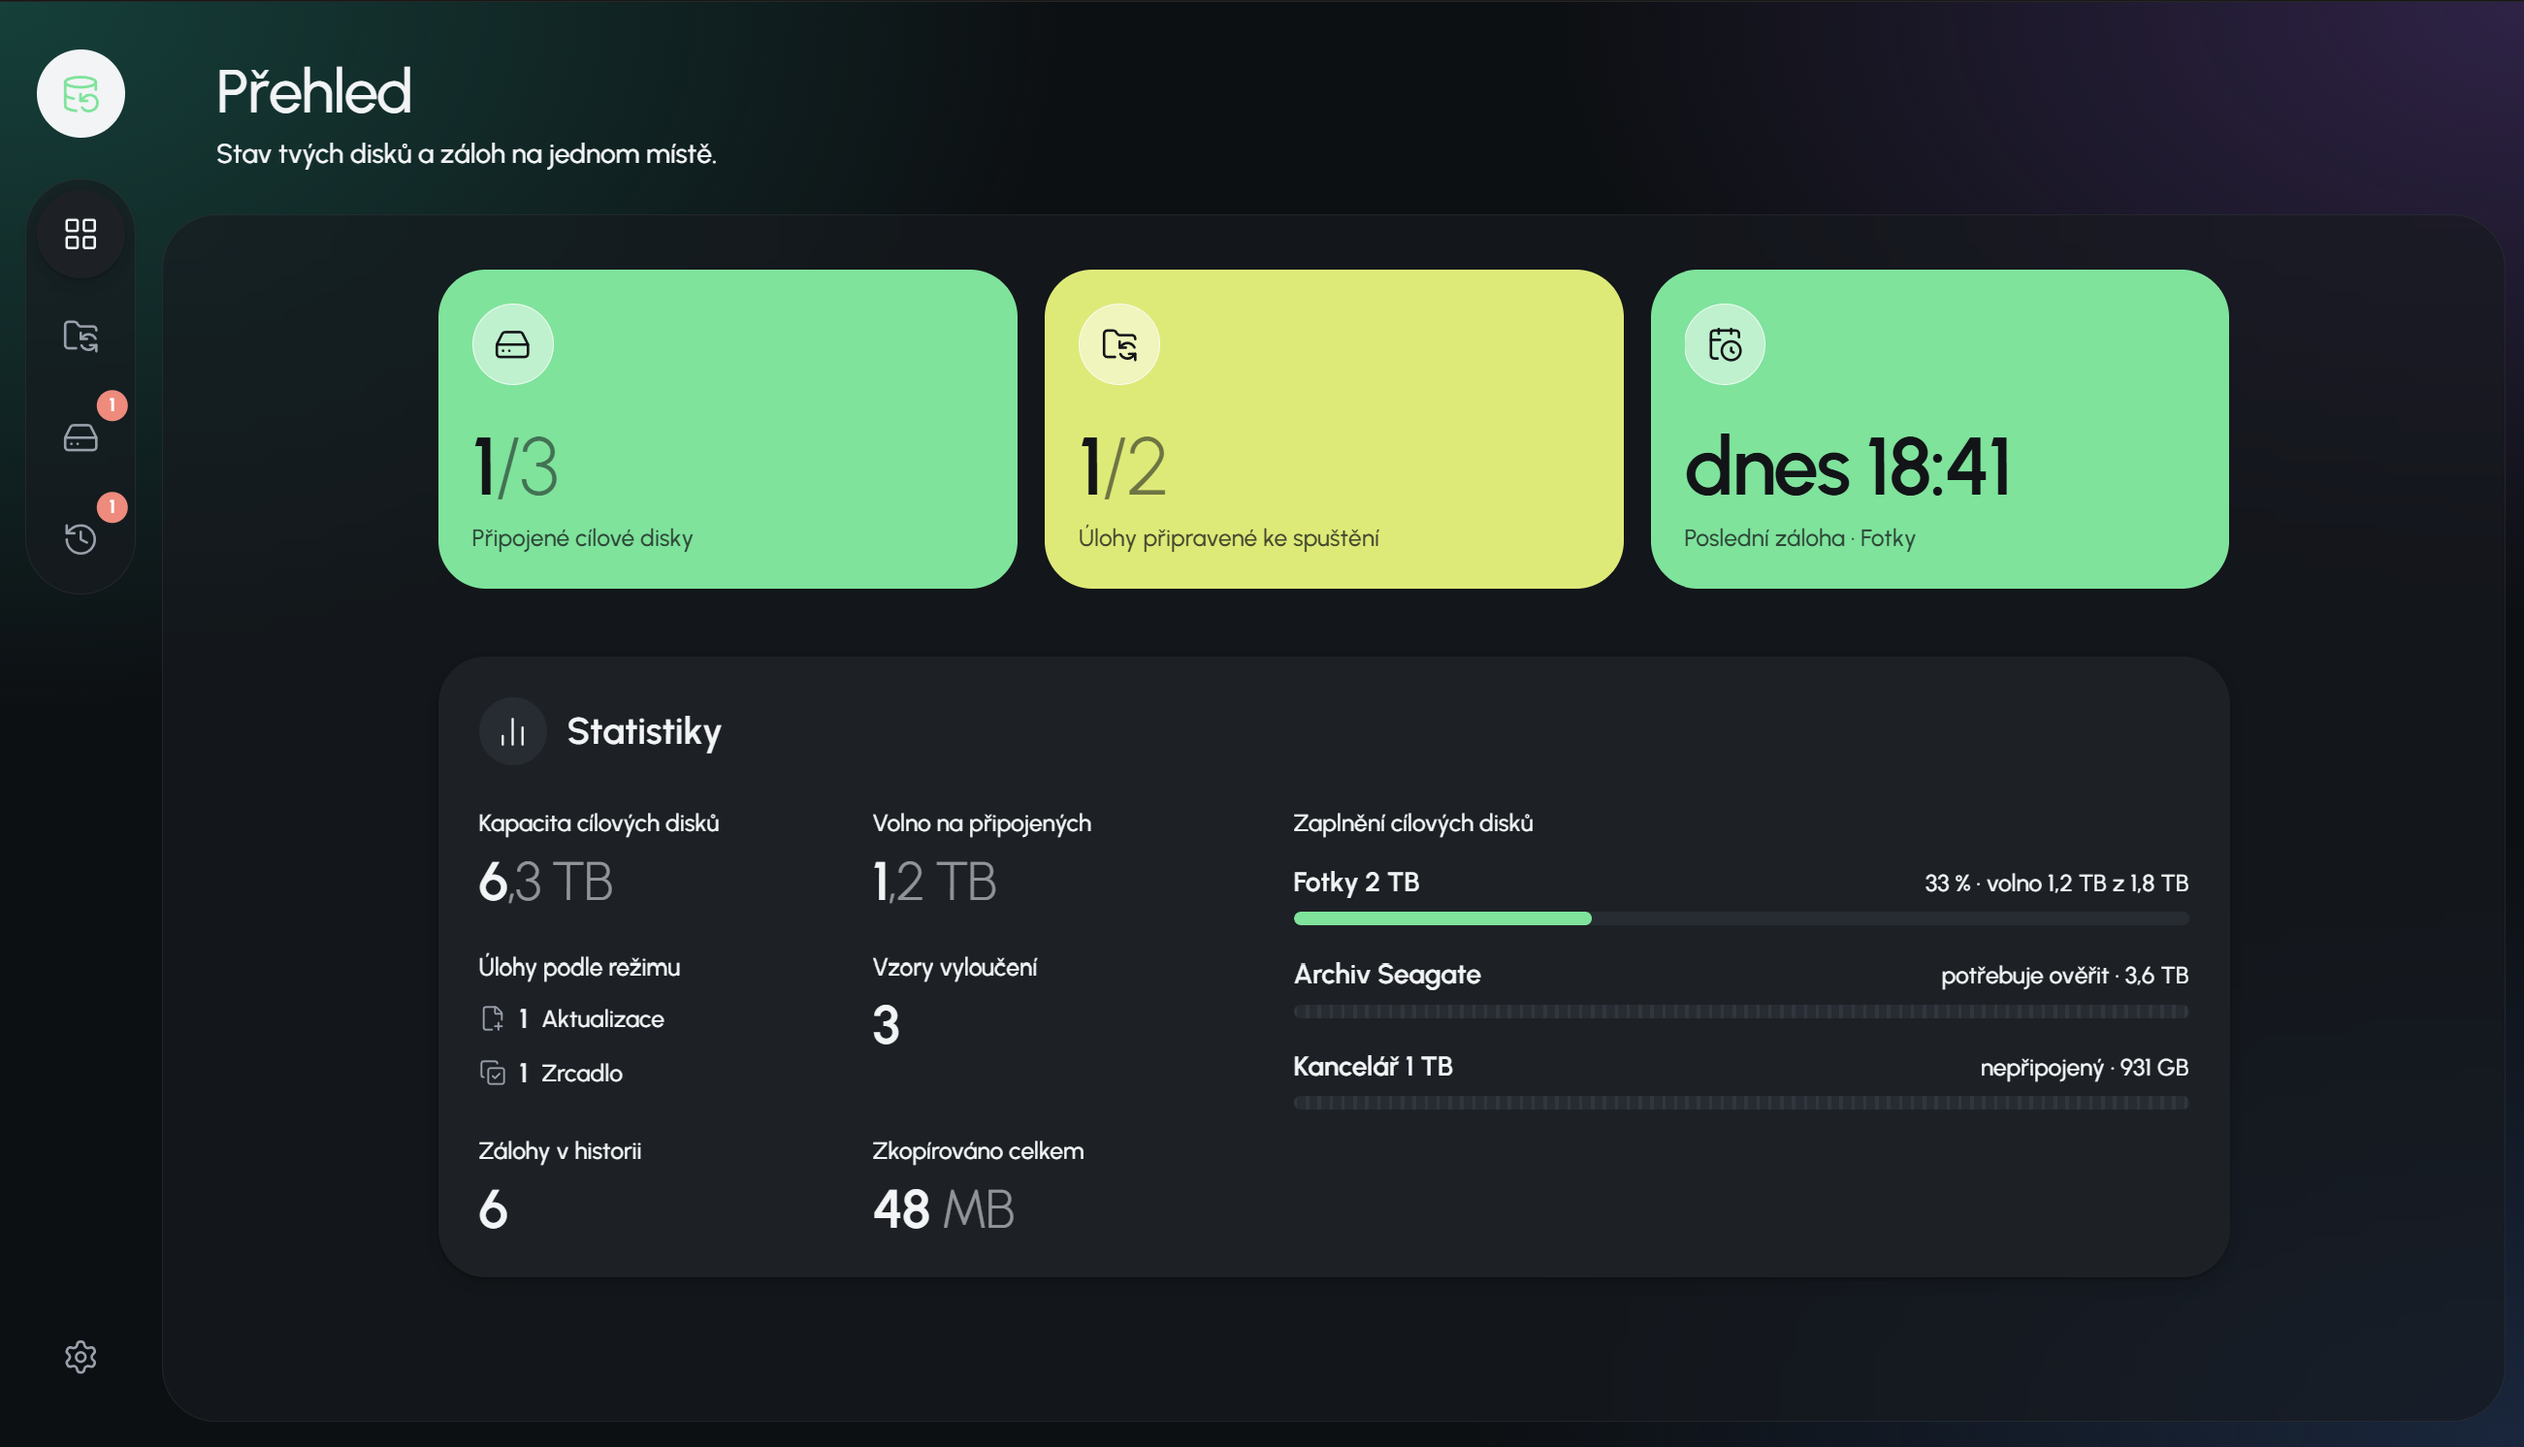
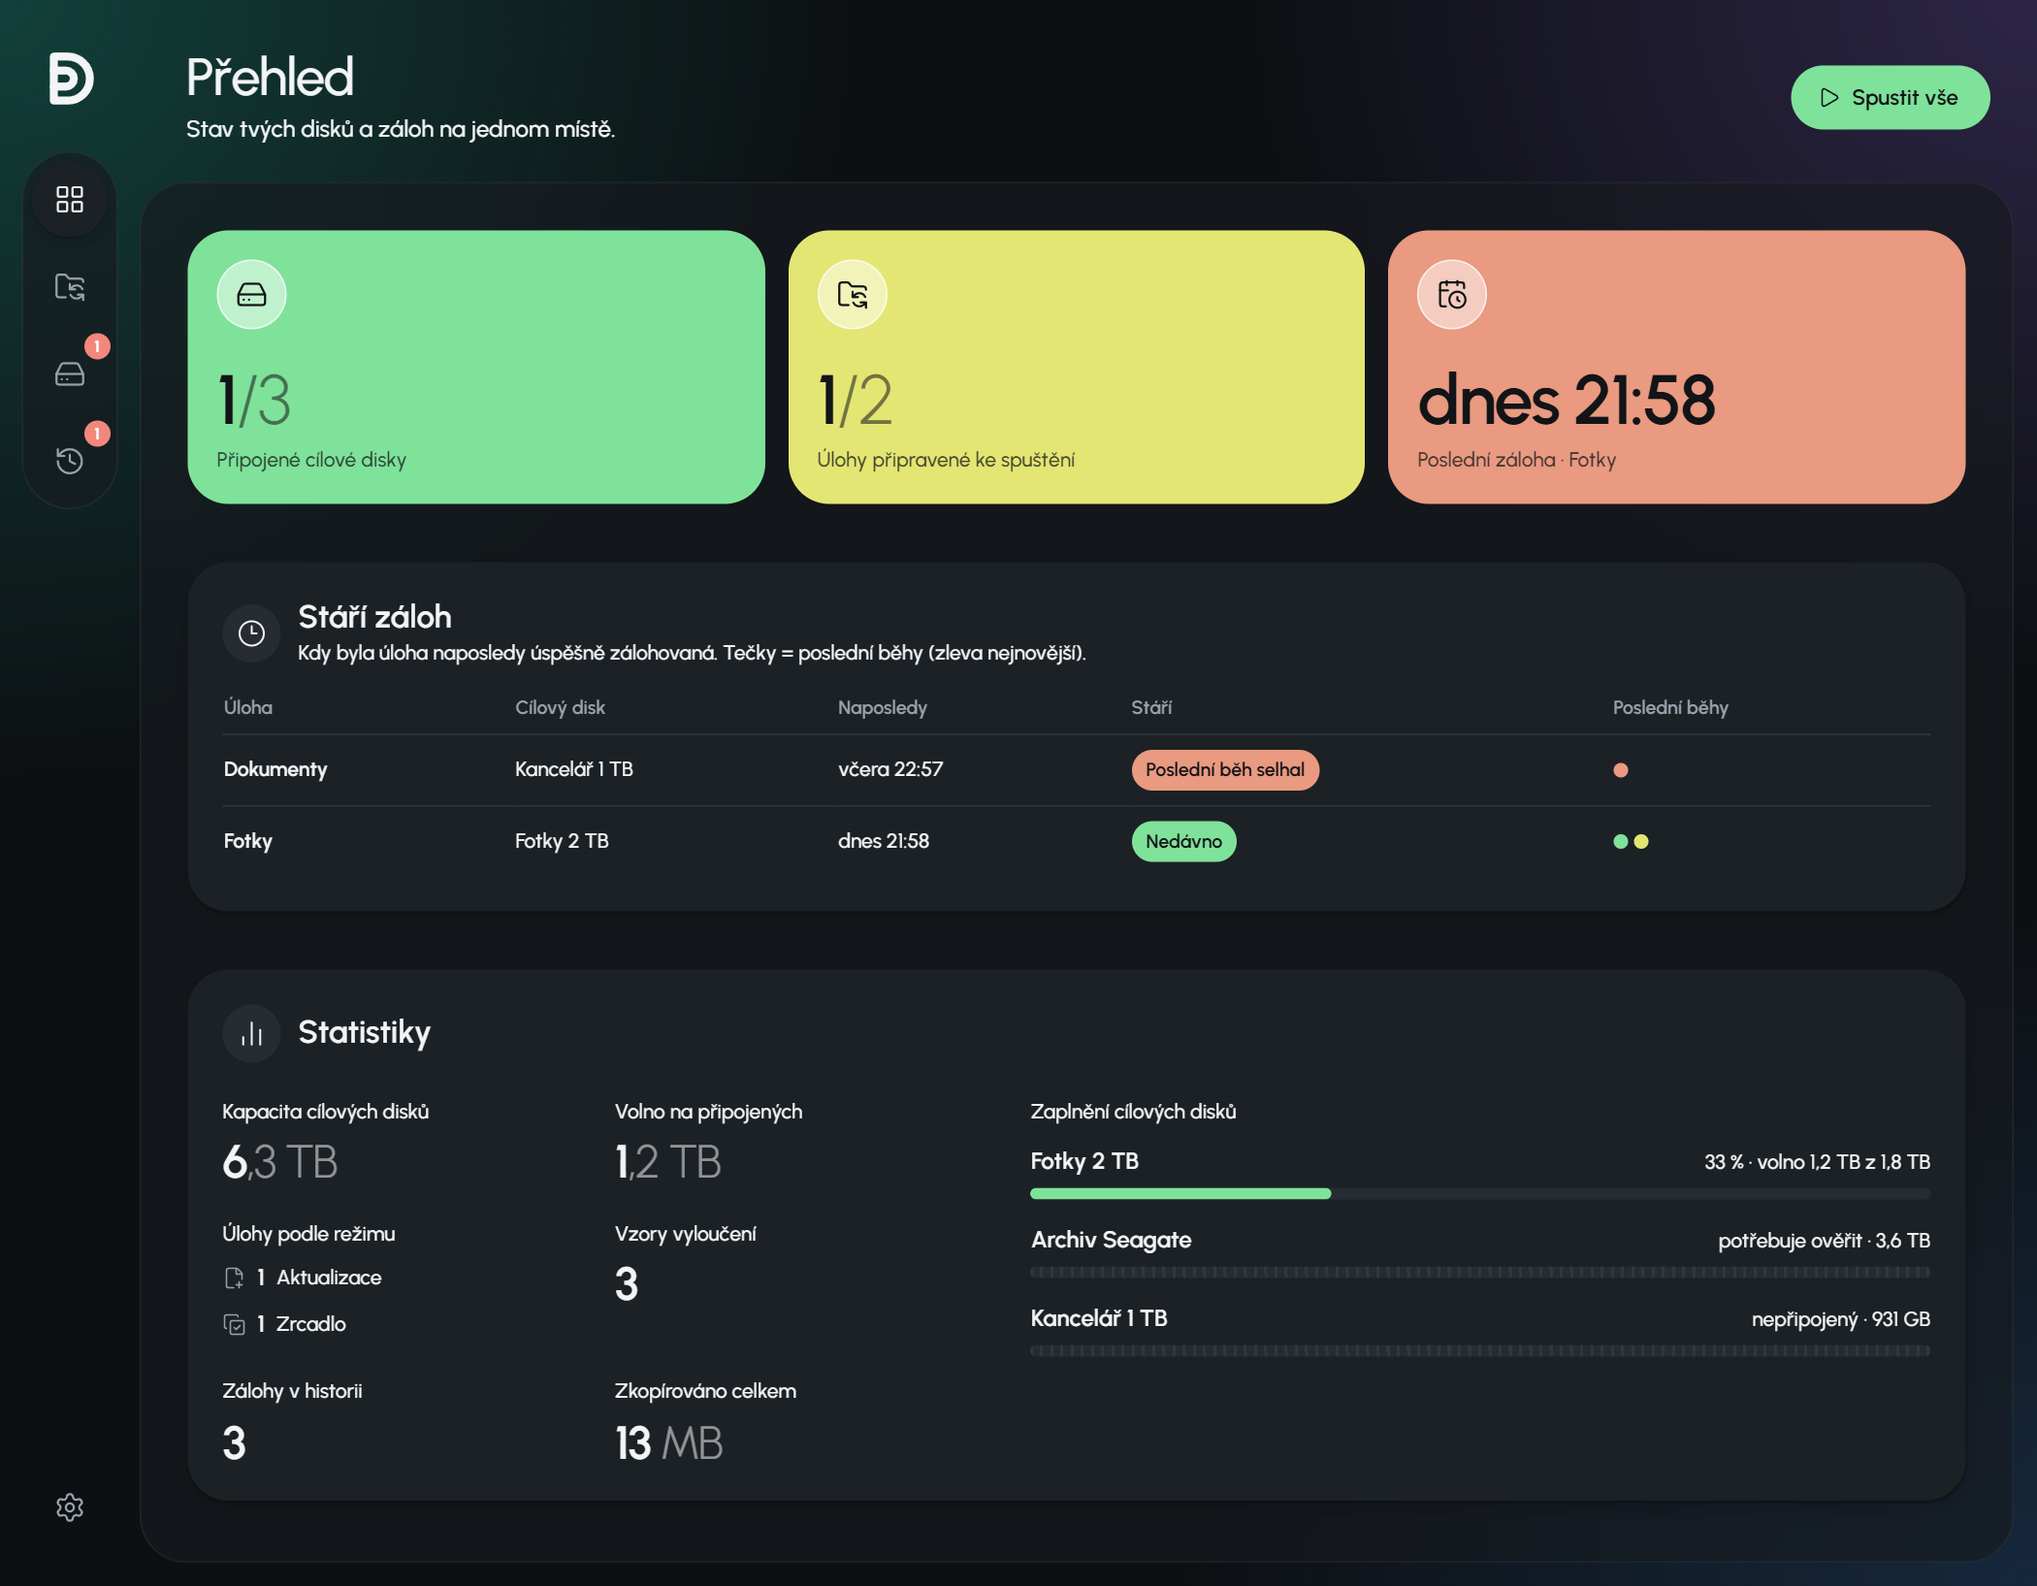
docs: refresh README screenshot with fictional demo data

diff --git a/CHANGELOG.md b/CHANGELOG.md
@@ -5,6 +5,9 @@ Sekce `[Unreleased]` slouží jako paměť rozpracované práce – AI i člově
 
 ## [Unreleased]
 
+### Změněno
+- Screenshot v README (ssets/abckup-preview.png) nahrazen aktuálním Přehledem s fiktivními demo daty.
+
 ### Opraveno
 - Clippy na Rust 1.99 (`sort_by` → `sort_by_key`) – CI `pnpm check` znovu projde.
 
